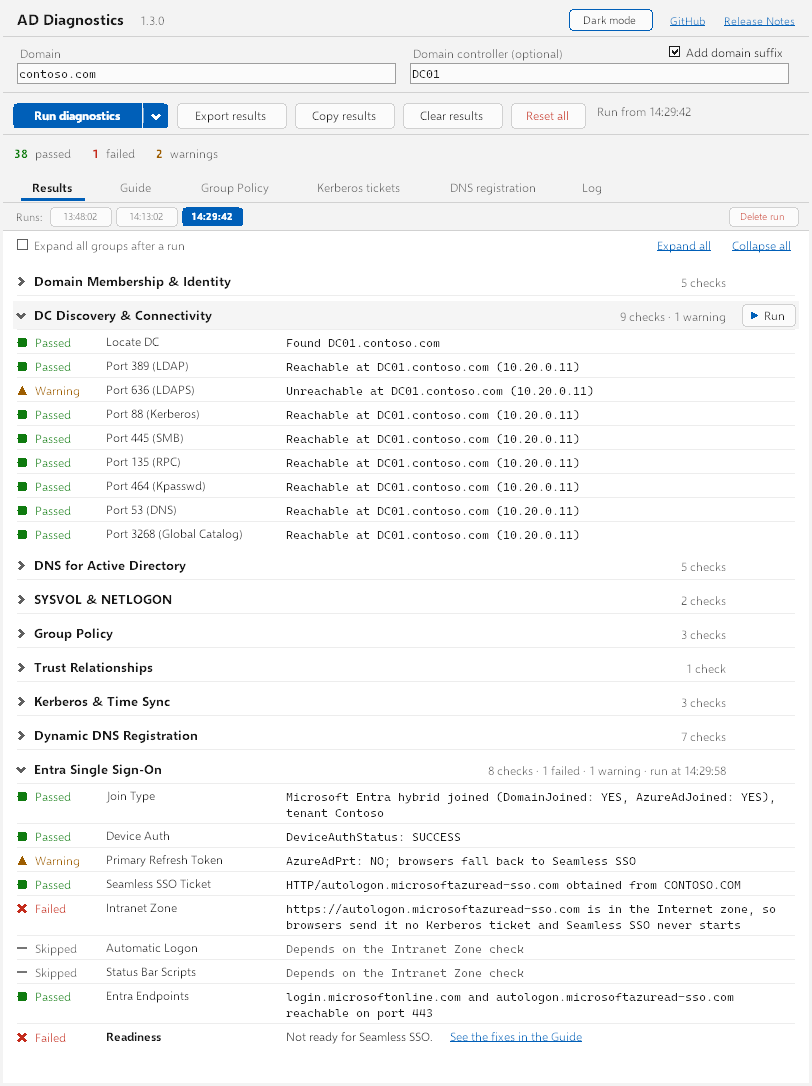
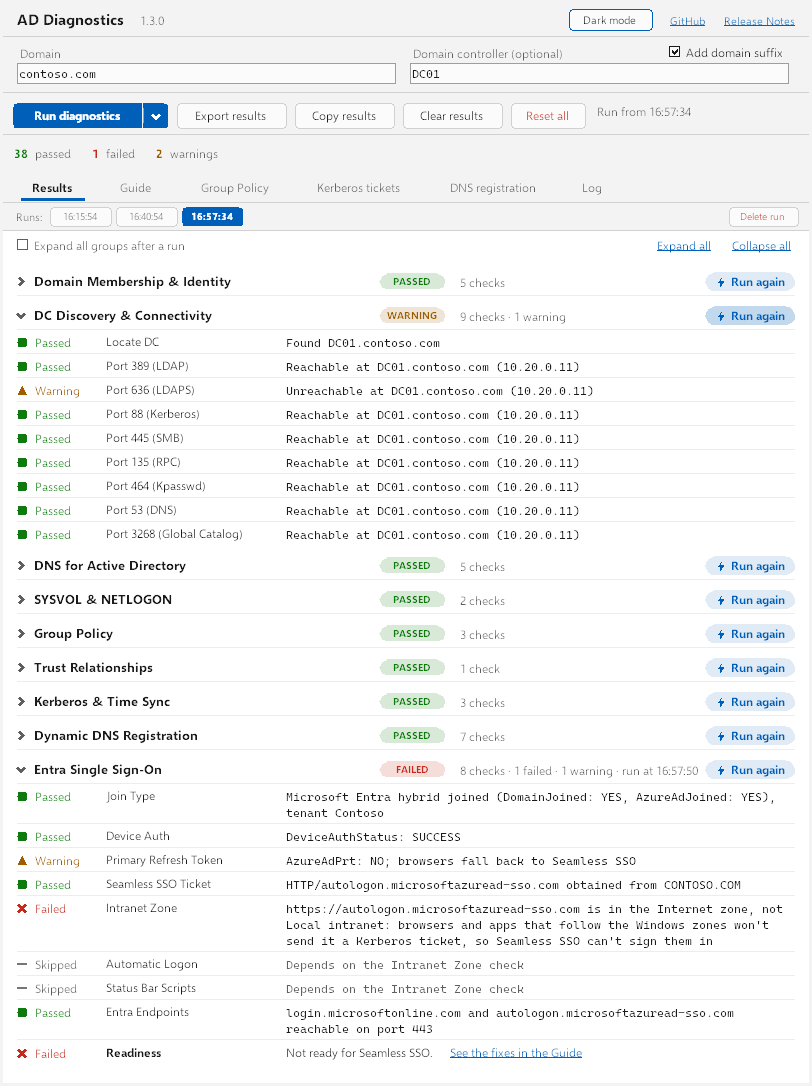
feat: show each section's verdict and an always-on Run again button
Headings carry a PASSED, WARNING or FAILED pill and every section
starts collapsed. A Run again capsule replaces the hover-only button.
Tab actions move to the top of their tabs, the DNS registration pane
starts at the top instead of scrolled to the end, and the Intranet
Zone result says which browsers it affects.

Claude-Session: https://claude.ai/code/session_019S8VvNcBzVvrCKMJ3KQd98

diff --git a/MainForm.cs b/MainForm.cs
@@ -335,7 +335,7 @@ class MainForm : Form
         _btnGpUpdate = new ThemedButton { Text = "Run gpupdate", BackColor = SurfaceColor, ForeColor = AccentColor, FlatStyle = FlatStyle.Flat, Font = new Font("Segoe UI", 9f, FontStyle.Bold), Size = new Size(110, 28) };
         _btnGpUpdate.Click += BtnGpUpdate_Click;
         _chkGpForce = new CheckBox { Text = "Force", ForeColor = WarnColor, Font = new Font("Segoe UI", 8.5f, FontStyle.Bold), AutoSize = true, FlatStyle = FlatStyle.Flat };
-        var gpBtnPanel = new Panel { Height = 34, Dock = DockStyle.Bottom, BackColor = BgColor };
+        var gpBtnPanel = new Panel { Height = 34, Dock = DockStyle.Top, BackColor = BgColor };
         _btnGpRefresh.Location = new Point(10, 3);
         _btnGpUpdate.Location = new Point(100, 3);
         _chkGpForce.Location = new Point(216, 8);
@@ -362,7 +362,7 @@ class MainForm : Form
         ticketsRefreshBtn.Click += (s, e) => RefreshTickets();
         var ticketsInfoBtn = new ThemedButton { Text = "What is this?", BackColor = SurfaceColor, ForeColor = AccentColor, FlatStyle = FlatStyle.Flat, Font = new Font("Segoe UI", 9f), Size = new Size(100, 28) };
         ticketsInfoBtn.Click += (s, e) => { if (_showingExplainer) { _showingExplainer = false; RefreshTickets(); } else ShowTicketsExplainer(); };
-        var ticketsBtnPanel = new Panel { Height = 34, Dock = DockStyle.Bottom, BackColor = BgColor };
+        var ticketsBtnPanel = new Panel { Height = 34, Dock = DockStyle.Top, BackColor = BgColor };
         _btnPurgeTickets.Location = new Point(10, 3);
         ticketsRefreshBtn.Location = new Point(158, 3);
         ticketsInfoBtn.Location = new Point(246, 3);
@@ -1420,7 +1420,7 @@ class MainForm : Form
         var ztna = new ComboBox { DropDownStyle = ComboBoxStyle.DropDownList, FlatStyle = FlatStyle.Flat, BackColor = SurfaceColor, ForeColor = TextColor, Font = new Font("Segoe UI", 9f), Location = new Point(334, 5), Size = new Size(290, 24), AccessibleName = "ZTNA adapter" };
         ztna.DropDown += (s, e) => RefreshZtnaChoices();
         ztna.SelectedIndexChanged += CmbZtna_SelectedIndexChanged;
-        var buttons = new Panel { Height = 34, Dock = DockStyle.Bottom, BackColor = BgColor };
+        var buttons = new Panel { Height = 34, Dock = DockStyle.Top, BackColor = BgColor };
         buttons.Controls.AddRange([register, check, lblZtna, ztna]);
         // The picker takes the room the window gives it, up to where a longer line stops being easier to read
         buttons.Resize += (s, e) =>
@@ -1482,11 +1482,17 @@ class MainForm : Form
                 + "  ('ipconfig /registerdns'), then traces what happens: the record on the zone's primary server before and\n"
                 + "  after, and any failure the DNS Client logs. It changes records in DNS and requires Run as Administrator.\n\n"
                 + "  Check again repeats the read-only Dynamic DNS registration checks from the Results tab. It sends nothing.\n", DimColor);
-            return;
         }
-        AppendRun(_dnsBox, $"\n  {_dnsHeading}\n\n", TextColor, GpBoldFont);
-        foreach (var step in _dnsSteps)
-            AppendDnsStep(step);
+        else
+        {
+            AppendRun(_dnsBox, $"\n  {_dnsHeading}\n\n", TextColor, GpBoldFont);
+            foreach (var step in _dnsSteps)
+                AppendDnsStep(step);
+        }
+        // Filled while the tab is hidden the box is a few pixels tall, so Windows scrolls it to the end and keeps
+        // it there once the tab opens; start from the top
+        _dnsBox.SelectionStart = 0;
+        _dnsBox.ScrollToCaret();
     }
 
     /// <summary>An entry in the ZTNA adapter picker; <see cref="Tag"/> is what <see cref="DiagConfig.ZtnaAdapter"/> takes.</summary>
@@ -1645,7 +1651,7 @@ class MainForm : Form
         _btnLogSections.Click += (s, e) => SetLogView(bySection: true);
         _btnLogByTime.Click += (s, e) => SetLogView(bySection: false);
         StyleLogViewButtons();
-        var buttons = new Panel { Height = 34, Dock = DockStyle.Bottom, BackColor = BgColor };
+        var buttons = new Panel { Height = 34, Dock = DockStyle.Top, BackColor = BgColor };
         buttons.Controls.AddRange([debug, btnCopyLog, btnSaveLog, btnClearLog, _btnLogSections, _btnLogByTime]);
         buttons.Resize += (s, e) =>
         {
@@ -1952,7 +1958,6 @@ class MainForm : Form
         int left = S(GridLeft), right = width - S(GridLeft);
         if (g != null)
         {
-            _paintFocus = _resultsCanvas.FocusedItem; // read before the rows it points into are rebuilt
             _resultsCanvas.Rows.Clear();
             _resultsCanvas.Headings.Clear();
         }
@@ -1975,14 +1980,15 @@ class MainForm : Form
         return y + S(14);
     }
 
-    ResultsCanvas.Row? _paintFocus; // the heading or button with the keyboard focus, as the results are painted
+    const int NoteColumn = 240; // room for the longest counts, "8 checks · 1 failed · 1 warning · run at 16:39:24"
+    const int RunSlot = 88;     // room for the widest run button, "Run again"
+    static readonly Font BadgeFont = new("Segoe UI", 7.5f, FontStyle.Bold);
+    static readonly Font RunTextFont = new("Segoe UI", 8.5f, FontStyle.Bold);
 
-    static readonly Font RunButtonFont = new("Segoe UI", 8.5f);
-
-    // A group's heading: chevron, name and counts, with a slot at the right edge for its Run button. The button shows
-    // on the heading under the mouse or the keyboard focus, and always on a group that hasn't run, but never while
-    // a run is going. Left of the slot the heading is a button that opens and closes the group; one that hasn't run
-    // has nothing to open, so there it is plain text
+    // A group's heading: chevron and name, the group's verdict as a pill, its counts, and at the right edge a button
+    // that runs the group on its own. The button stays in place while a run is going, faded and inactive. Left of it
+    // the heading is a button that opens and closes the group; one that hasn't run has nothing to open, so there it
+    // is plain text
     int LayoutHeading(Graphics? g, TestGroup group, bool open, bool notRun, int y, int left, int right)
     {
         const TextFormatFlags oneLine = TextFormatFlags.NoPrefix | TextFormatFlags.SingleLine;
@@ -1990,58 +1996,95 @@ class MainForm : Form
         if (g != null)
         {
             var band = new Rectangle(left - S(4), y - S(2), right - left + S(8), S(28));
-            bool hovered = _resultsCanvas.HoverGroup == group.Name;
-            bool focused = _paintFocus is { } f && f.Group == group.Name && f.Kind is ResultsCanvas.Kind.Heading or ResultsCanvas.Kind.RunLink;
-            if (hovered)
-            {
-                using var hover = new SolidBrush(Blend(PanelColor, TextColor, 0.04));
-                g.FillRectangle(hover, band);
-            }
-
-            var button = RunButtonBounds(g, right, y);
+            var button = RunButtonBounds(g, right, y, notRun);
             string note = HeadingNote(group);
-            int noteW = TextRenderer.MeasureText(g, note, GroupCountFont, Size.Empty, oneLine).Width;
-            TextRenderer.DrawText(g, note, GroupCountFont, new Point(button.Left - S(12) - noteW, y + S(5)), DimColor, oneLine);
+            // The counts start at a fixed column and the verdict sits just left of it, so both line up down the list
+            int noteX = right - S(RunSlot) - S(10) - S(NoteColumn);
+            TextRenderer.DrawText(g, note, GroupCountFont, new Point(noteX, y + S(5)), DimColor, oneLine);
+            if (!notRun && GroupVerdict(group) is { } verdict) DrawGroupBadge(g, verdict, noteX - S(12), y);
             if (!notRun) DrawChevron(g, left, y + S(8), open);
             TextRenderer.DrawText(g, group.Name, GroupHeaderFont, new Point(left + S(14), y + S(3)), notRun ? DimColor : TextColor, oneLine);
 
-            var bounds = new Rectangle(left - S(4), y, button.Left - S(8) - (left - S(4)), S(24));
+            var bounds = new Rectangle(left - S(4), y, right - S(RunSlot) - S(8) - (left - S(4)), S(24));
             _resultsCanvas.Rows.Add(notRun
                 ? new(group.Name, group.Name, "Not run", "", bounds)
                 : new(group.Name, group.Name, "", note, bounds, ResultsCanvas.Kind.Heading, open));
             _resultsCanvas.Headings.Add((group.Name, band));
+            bool hover = !_running && _resultsCanvas.HoverGroup == group.Name && _resultsCanvas.HoverButton;
+            DrawRunButton(g, button, notRun, hover);
             if (!_running)
-            {
-                if (notRun || hovered || focused)
-                    DrawRunButton(g, button, hovered && _resultsCanvas.HoverButton);
                 _resultsCanvas.Rows.Add(new(group.Name, notRun ? $"Run {group.Name}" : $"Run {group.Name} again", "", "",
                     button, ResultsCanvas.Kind.RunLink));
-            }
         }
         return y + S(26);
     }
 
-    Rectangle RunButtonBounds(Graphics g, int right, int y)
+    // The group's worst result once every check has finished, the readiness line included; null while it runs
+    static Status? GroupVerdict(TestGroup group)
     {
-        int textW = TextRenderer.MeasureText(g, "Run", RunButtonFont, Size.Empty, TextFormatFlags.NoPrefix | TextFormatFlags.NoPadding).Width;
-        int w = S(9) + S(7) + S(6) + textW + S(10);
-        return new Rectangle(right - w, y + S(1), w, S(22));
+        if (group.Tests.Count == 0 || group.Tests.Any(IsPending)) return null;
+        var all = group.Tests.Select(t => t.Status).Append(group.Readiness?.Status ?? Status.Pass).ToList();
+        return all.Contains(Status.Fail) ? Status.Fail : all.Contains(Status.Warn) ? Status.Warn : Status.Pass;
     }
 
-    // A small button: surface fill and border like the app's buttons, a play mark in primary, "Run" in text colour
-    void DrawRunButton(Graphics g, Rectangle r, bool hover)
+    // The verdict as a pill ending at right: PASSED, WARNING or FAILED in the status colour on a tint of it, all the
+    // same width so they line up
+    void DrawGroupBadge(Graphics g, Status verdict, int right, int y)
     {
-        using (var path = ThemedButton.RoundedRect(r, S(4)))
-        {
-            using var fill = new SolidBrush(hover ? Blend(SurfaceColor, TextColor, 0.07) : SurfaceColor);
-            g.FillPath(fill, path);
-            g.DrawPath(BorderPen, path);
-        }
-        int x = r.X + S(9), mid = r.Y + r.Height / 2;
-        using (var mark = new SolidBrush(AccentColor))
-            g.FillPolygon(mark, new Point[] { new(x, mid - S(4)), new(x + S(7), mid), new(x, mid + S(4)) });
-        TextRenderer.DrawText(g, "Run", RunButtonFont, new Rectangle(x + S(13), r.Y, r.Right - x - S(13), r.Height), TextColor,
+        var (word, color) = StatusLook(new TestEntry("", verdict, "-"));
+        const TextFormatFlags flags = TextFormatFlags.NoPrefix | TextFormatFlags.NoPadding;
+        int w = TextRenderer.MeasureText(g, "WARNING", BadgeFont, Size.Empty, flags).Width + S(16);
+        var pill = new Rectangle(right - w, y + S(4), w, S(16));
+        FillRounded(g, pill, S(8), Blend(PanelColor, color, 0.16));
+        TextRenderer.DrawText(g, word.ToUpperInvariant(), BadgeFont, pill, color,
+            flags | TextFormatFlags.HorizontalCenter | TextFormatFlags.VerticalCenter);
+    }
+
+    // "Run again", or "Run" on a group that hasn't run, after a bolt, right-aligned in the run slot
+    Rectangle RunButtonBounds(Graphics g, int right, int y, bool notRun)
+    {
+        int textW = TextRenderer.MeasureText(g, notRun ? "Run" : "Run again", RunTextFont, Size.Empty,
+            TextFormatFlags.NoPrefix | TextFormatFlags.NoPadding).Width;
+        int w = S(10) + S(16) + textW + S(10);
+        return new Rectangle(right - w, y + S(3), w, S(19));
+    }
+
+    // A capsule like the verdict pills, in primary: a tint behind a bolt and the words, deeper under the mouse and
+    // faded during a run
+    void DrawRunButton(Graphics g, Rectangle r, bool notRun, bool hover)
+    {
+        double strength = _running ? 0.4 : 1.0;
+        FillRounded(g, r, S(9), Blend(PanelColor, AccentColor, (hover ? 0.24 : 0.12) * strength));
+        var color = Blend(PanelColor, AccentColor, strength);
+        DrawBolt(g, color, r.X + S(15), r.Y + r.Height / 2f);
+        int textX = r.X + S(26);
+        TextRenderer.DrawText(g, notRun ? "Run" : "Run again", RunTextFont, new Rectangle(textX, r.Y, r.Right - textX, r.Height), color,
             TextFormatFlags.NoPrefix | TextFormatFlags.NoPadding | TextFormatFlags.VerticalCenter | TextFormatFlags.Left);
+    }
+
+    // A lightning bolt 12px tall, centred on (cx, cy)
+    void DrawBolt(Graphics g, Color color, float cx, float cy)
+    {
+        float u = DeviceDpi / 96f;
+        var smooth = g.SmoothingMode;
+        g.SmoothingMode = System.Drawing.Drawing2D.SmoothingMode.AntiAlias;
+        using (var brush = new SolidBrush(color))
+            g.FillPolygon(brush, new PointF[]
+            {
+                new(cx + 1.5f * u, cy - 6 * u), new(cx - 3.5f * u, cy + 1 * u), new(cx - 0.2f * u, cy + 1 * u),
+                new(cx - 1.5f * u, cy + 6 * u), new(cx + 3.5f * u, cy - 1 * u), new(cx + 0.2f * u, cy - 1 * u),
+            });
+        g.SmoothingMode = smooth;
+    }
+
+    static void FillRounded(Graphics g, Rectangle r, int radius, Color color)
+    {
+        var smooth = g.SmoothingMode;
+        g.SmoothingMode = System.Drawing.Drawing2D.SmoothingMode.AntiAlias;
+        using (var path = ThemedButton.RoundedRect(r, radius))
+        using (var fill = new SolidBrush(color))
+            g.FillPath(fill, path);
+        g.SmoothingMode = smooth;
     }
 
     // One check: mark and word, name, and the detail wrapped in its column
@@ -2115,12 +2158,10 @@ class MainForm : Form
             ControlPaint.DrawFocusRectangle(g, focused.Bounds, TextColor, PanelColor);
     }
 
-    static bool HasIssues(TestGroup group) => group.Tests.Any(t => t.Status is Status.Fail or Status.Warn);
-
-    // A group the user opened or closed stays that way; otherwise only groups with a failure or warning are open,
-    // or all of them with "Expand all groups after a run"
+    // A group the user opened or closed stays that way; otherwise groups start closed, their heading carrying the
+    // verdict, or all open with "Expand all groups after a run"
     bool IsGroupOpen(TestGroup group) =>
-        SelectedRun is { } run && run.Open.TryGetValue(group.Name, out bool open) ? open : _expandAll || HasIssues(group);
+        SelectedRun is { } run && run.Open.TryGetValue(group.Name, out bool open) ? open : _expandAll;
 
     void RerenderResults()
     {
@@ -2181,6 +2222,7 @@ class MainForm : Form
         public readonly List<(string Group, Rectangle Band)> Headings = []; // each heading's full width, for hover
         public string? HoverGroup { get; private set; }  // the group whose heading is under the mouse
         public bool HoverButton { get; private set; }    // the mouse is over that heading's Run button
+        readonly ToolTip _tip = new();                   // names the Run button under the mouse
         int _focus = -1; // index into Rows of the heading or link with the keyboard focus
 
         public event Action<Row>? Activated;
@@ -2223,6 +2265,7 @@ class MainForm : Form
             bool onButton = i >= 0 && Rows[i].Kind == Kind.RunLink;
             if (group != HoverGroup || onButton != HoverButton)
             {
+                if (onButton != HoverButton) _tip.SetToolTip(this, onButton ? Rows[i].Name : null);
                 (HoverGroup, HoverButton) = (group, onButton);
                 Invalidate();
             }
@@ -2232,6 +2275,7 @@ class MainForm : Form
         {
             base.OnMouseLeave(e);
             if (HoverGroup == null) return;
+            if (HoverButton) _tip.SetToolTip(this, null);
             (HoverGroup, HoverButton) = (null, false);
             Invalidate();
         }

diff --git a/tools/screenshots/Shots.cs b/tools/screenshots/Shots.cs
@@ -50,14 +50,20 @@ static class Shots
     {
         Pump(800);
         Populate(form);
-        // Groups with no issue start collapsed, so the window only needs the height of the open ones
+        // Tall enough for the two groups opened below
         form.Height = 1120;
         Pump(800);
-        // The Run button shows on the heading under the mouse, so put the pointer on one
+        // Groups start closed; open two as a user would, to show their checks
+        var shown = (DiagRun)form.GetType().GetProperty("SelectedRun", F)!.GetValue(form)!;
+        shown.Open["DC Discovery & Connectivity"] = true;
+        shown.Open[Diagnostics.EntraSsoGroup] = true;
+        Call(form, "RerenderResults");
+        Pump(300);
+        // Put the pointer on one heading's run button to show its hover state
         var canvas = Get<Control>(form, "_resultsCanvas");
         var headings = (List<(string Group, Rectangle Band)>)canvas.GetType().GetField("Headings")!.GetValue(canvas)!;
         var band = headings.Find(h => h.Group == "DC Discovery & Connectivity").Band;
-        Cursor.Position = canvas.PointToScreen(new Point(band.Left + band.Width / 2, band.Top + band.Height / 2));
+        Cursor.Position = canvas.PointToScreen(new Point(band.Right - 16, band.Top + 14));
         Pump(300);
         Capture(form, outDir, "results.png");
         form.Height = 900;
@@ -311,7 +317,7 @@ static class Shots
                 new("Device Auth", Status.Pass, "DeviceAuthStatus: SUCCESS"),
                 new("Primary Refresh Token", Status.Warn, "AzureAdPrt: NO; browsers fall back to Seamless SSO"),
                 new("Seamless SSO Ticket", Status.Pass, "HTTP/autologon.microsoftazuread-sso.com obtained from CONTOSO.COM"),
-                new("Intranet Zone", Status.Fail, "https://autologon.microsoftazuread-sso.com is in the Internet zone, so browsers send it no Kerberos ticket and Seamless SSO never starts"),
+                new("Intranet Zone", Status.Fail, "https://autologon.microsoftazuread-sso.com is in the Internet zone, not Local intranet: browsers and apps that follow the Windows zones won't send it a Kerberos ticket, so Seamless SSO can't sign them in"),
                 new("Automatic Logon", Status.Skip, "Depends on the Intranet Zone check"),
                 new("Status Bar Scripts", Status.Skip, "Depends on the Intranet Zone check"),
                 new("Entra Endpoints", Status.Pass, "login.microsoftonline.com and autologon.microsoftazuread-sso.com reachable on port 443"),

diff --git a/EntraSso.cs b/EntraSso.cs
@@ -92,7 +92,7 @@ static partial class Diagnostics
 
     // A Seamless SSO failure on a PC that signs in with its PRT breaks only the fallback, so it warns
     static TestEntry AsFallback(TestEntry test) => test.Status == Status.Fail
-        ? test with { Status = Status.Warn, Detail = test.Detail + "; this PC signs in with its Primary Refresh Token, so only browsers and apps that can't use it are affected" }
+        ? test with { Status = Status.Warn, Detail = test.Detail + "; this PC signs in with its Primary Refresh Token, so it matters only where the token can't be used" }
         : test;
 
     // How the PC is joined, which decides what else is checked; null when dsregcmd reported no join state
@@ -185,7 +185,7 @@ static partial class Diagnostics
         if (sec.Zone != IntranetZone)
             return [
                 new(SsoZone, Status.Fail,
-                    $"{SsoUrl} is in the {ZoneName(sec.Zone)} zone, so browsers send it no Kerberos ticket and Seamless SSO never starts"),
+                    $"{SsoUrl} is in the {ZoneName(sec.Zone)} zone, not Local intranet: browsers and apps that follow the Windows zones won't send it a Kerberos ticket, so Seamless SSO can't sign them in"),
                 new(SsoLogon, Status.Skip, "Depends on the Intranet Zone check"),
                 new(SsoStatusBar, Status.Skip, "Depends on the Intranet Zone check"),
             ];

diff --git a/tests/AdDiag.Tests/EntraSsoTests.cs b/tests/AdDiag.Tests/EntraSsoTests.cs
@@ -168,7 +168,7 @@ public class EntraSsoTests
         var zone = Entry(group, "Intranet Zone");
         Assert.Equal(Status.Warn, zone.Status);
         Assert.Contains("in the Internet zone", zone.Detail);
-        Assert.Contains("only browsers and apps that can't use it", zone.Detail);
+        Assert.Contains("it matters only where the token can't be used", zone.Detail);
         Assert.Equal(Status.Warn, Entry(group, "Seamless SSO Ticket").Status);
         Assert.DoesNotContain(group.Tests, t => t.Status == Status.Fail);
         Assert.Equal(new Readiness(Status.Warn,

diff --git a/DESIGN.md b/DESIGN.md
@@ -159,8 +159,9 @@ Windows 11's own system values, so the app matches the OS around it.
 
 - 14px side gutter. Fixed 96-DPI pixel values in code go through `S()` so they scale with the display.
 - Results are a grid: status (mark + word) at 14px, test name at 100px, detail at 280px to the right edge. Rows are at least 24px with a 1px row line above each.
-- Each group heading carries its count at the right edge: "9 checks · 1 warning".
-- Groups collapse to their heading. After a run only groups with a failure or warning are open, unless "Expand all groups after a run" is ticked; a group the user opens or closes stays that way for that run. The counts stay on a closed heading, so its state still reads.
+- Each group heading carries its verdict pill and counts in a fixed column, and its Run button at the right edge: "9 checks · 1 warning".
+- A tab's own actions (Group Policy, Kerberos tickets, DNS registration, Log) sit in a 34px bar at the top of the tab, under the run strip, never at the bottom of the window.
+- Groups collapse to their heading. After a run every group is closed, unless "Expand all groups after a run" is ticked; a group the user opens or closes stays that way for that run. The verdict pill and counts stay on a closed heading, so its state still reads.
 
 ## Elevation & Depth
 
@@ -181,7 +182,7 @@ None. Depth is tone only: the panel is lighter (dark: darker) than the window. N
 - **Danger button:** a normal button with the label in fail colour (Reset all, Delete run).
 - **Tab:** bare text, dim when idle; the selected tab is bold with a 3px primary underline.
 - **Result row:** mark and word in status colour; name and detail in text colour.
-- **Group heading** (Results): a 8px text-dim chevron (right when closed, down when open), the bold group name, the counts, and at the right edge a slot for a small **Run button** (a 22px surface button with a border, a primary play mark and "Run"), which runs that group alone. The button shows only on the heading under the mouse (which also takes a 4% tint across the full width) or the keyboard focus, and always on a group that hasn't run; never while a run is going. The slot is kept when the button is hidden, so the counts don't move. Left of the slot the heading is the button that opens and closes the group; no hand cursor anywhere on it. A group run on its own adds " · run at HH:mm:ss" to its counts. A group that hasn't run shows its name in text-dim, no chevron, "Not run" for counts, and isn't a button. Up and Down move between headings and Run buttons, Enter or Space acts; the focused one draws a focus rectangle.
+- **Group heading** (Results): a 8px text-dim chevron (right when closed, down when open), the bold group name, then the **verdict pill** and the counts, and at the right edge the **Run button**. The counts start at a fixed column with the pill just left of it, so both line up down the list. Verdict pill: the group's worst result once all its checks finish, the readiness line included — PASSED, WARNING or FAILED in 7.5pt bold capitals, in the status colour on a 16% tint of it, 16px tall, fully rounded, all as wide as WARNING. Run button: a capsule like the pills in primary (12% tint, 24% under the mouse), a lightning bolt and "Run again" in 8.5pt bold primary ("Run" on a group that hasn't run), right-aligned in an 88px slot; it runs that group alone and is always shown, faded to 40% and inactive while a run is going. Left of the slot the heading is the button that opens and closes the group; no hand cursor anywhere on it. A group run on its own adds " · run at HH:mm:ss" to its counts. A group that hasn't run shows its name in text-dim, no chevron, no pill, "Not run" for counts, and isn't a button. Up and Down move between headings and Run buttons, Enter or Space acts; the focused one draws a focus rectangle; a tooltip names the Run button's group.
 - **Readiness row:** a result row whose name is "Readiness" in bold and whose detail is the group's verdict in body text. When the verdict asks for action, a link in primary, underlined, follows it ("See the fixes in the Guide") and opens the Guide tab with that group's section at the top.
 - **Results bar:** above the results, on the panel: the "Expand all groups after a run" checkbox in text-dim on the left, "Expand all" and "Collapse all" links in primary on the right. Shown only when there are results.
 - **Ticket badge:** filled label in the Kerberos tickets pane; text uses on-primary.

diff --git a/README.md b/README.md
@@ -36,11 +36,11 @@ On first launch, Windows SmartScreen may display a warning ("Windows protected y
 2. The app auto-detects the current domain on startup (from `USERDNSDOMAIN`, `dsregcmd /status`, or the machine's DNS domain suffix) and pre-fills the **Domain** field if this machine is domain-joined. Enter target details:
    - **Domain** — e.g. `contoso.com`
    - **DC Hostname** — optional, defaults to domain for DC discovery. **+ domain suffix** is on by default, auto-appending the domain to short names. Uncheck to use the value as-is.
-3. Click **Run Diagnostics** — results stream in as each test group completes. To run one group on its own, pick it from the arrow next to the button, or point at its heading in Results and click the **Run** button that appears there (it is always shown on a group that hasn't run; with the keyboard, move to a heading and press Down to reach it). For the same domain and DC as the run on show, its results replace that group there and its heading shows when it ran ("run at 14:32:05"); otherwise it starts a new run where the other groups show **Not run** until you run them. One run goes at a time
+3. Click **Run Diagnostics** — results stream in as each test group completes. To run one group on its own, pick it from the arrow next to the button, or click **Run again** at the right of its heading in Results (**Run** on a group that hasn't run; with the keyboard, move to a heading and press Down to reach it). For the same domain and DC as the run on show, its results replace that group there and its heading shows when it ran ("run at 14:32:05"); otherwise it starts a new run where the other groups show **Not run** until you run them. One run goes at a time
 
    ![The Run button's menu over a run started from one group, the others not run yet](docs/screenshots/run-menu.png)
 
-4. Review results. Groups with a failure or warning open; the rest are collapsed to their heading and counts. Click a heading (or use Up, Down and Enter or Space) to open or close it, **Expand all** / **Collapse all** for every group, or tick **Expand all groups after a run** to open them all by default (not saved). Switch to the **Guide** tab for explanations and fix suggestions, the **Group Policy** tab for a full Computer/User scope breakdown and an in-app **gpupdate**, the **Kerberos Tickets** tab for your full ticket cache, the **DNS registration** tab to register this computer in DNS and trace the result, or the **Log** tab to see what the app ran
+4. Review results. Every group starts collapsed to its heading, which shows its result (**PASSED**, **WARNING** or **FAILED**, the worst of its checks) and its counts. Click a heading (or use Up, Down and Enter or Space) to open or close it, **Expand all** / **Collapse all** for every group, or tick **Expand all groups after a run** to open them all by default (not saved). Switch to the **Guide** tab for explanations and fix suggestions, the **Group Policy** tab for a full Computer/User scope breakdown and an in-app **gpupdate**, the **Kerberos Tickets** tab for your full ticket cache, the **DNS registration** tab to register this computer in DNS and trace the result, or the **Log** tab to see what the app ran
 
 Up to 5 diagnostic runs are stored with timestamps — click any run to review it, or **Delete Run** to remove it.
 
